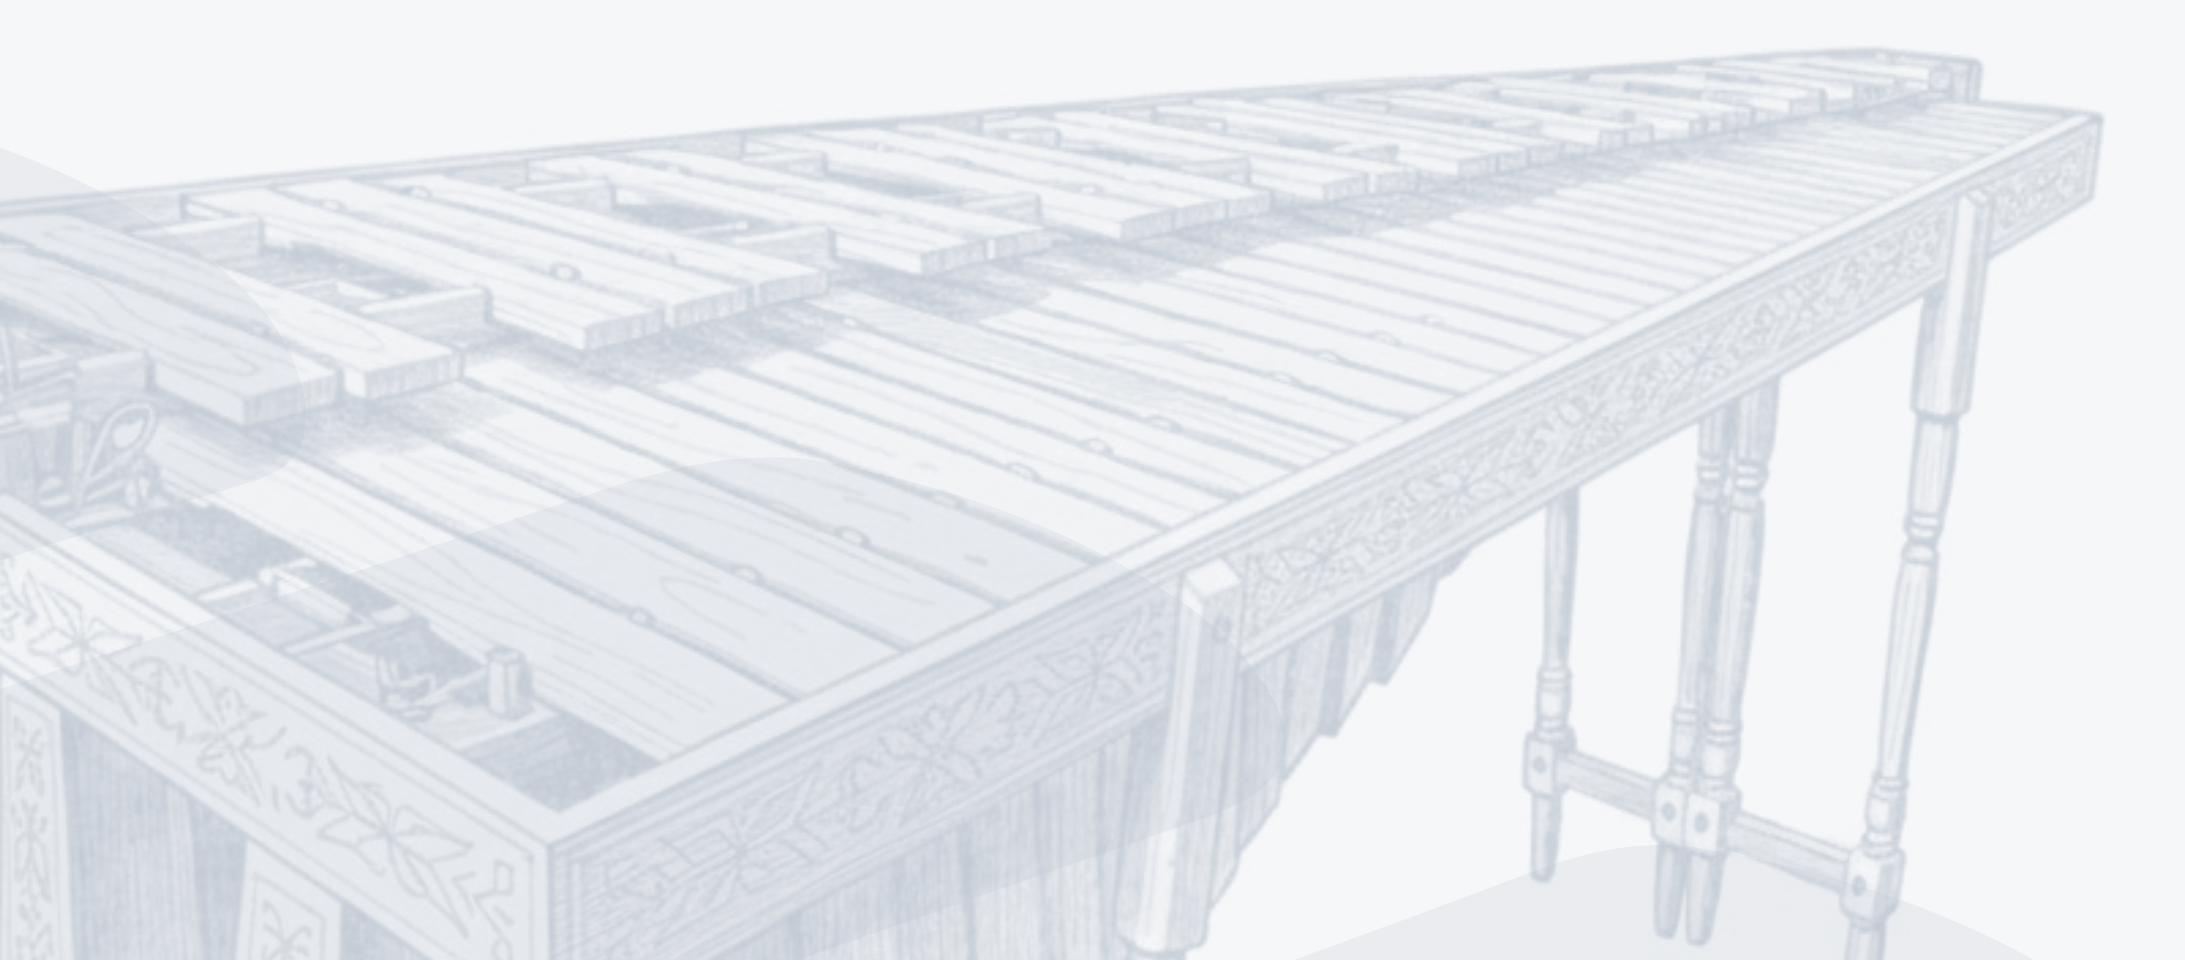
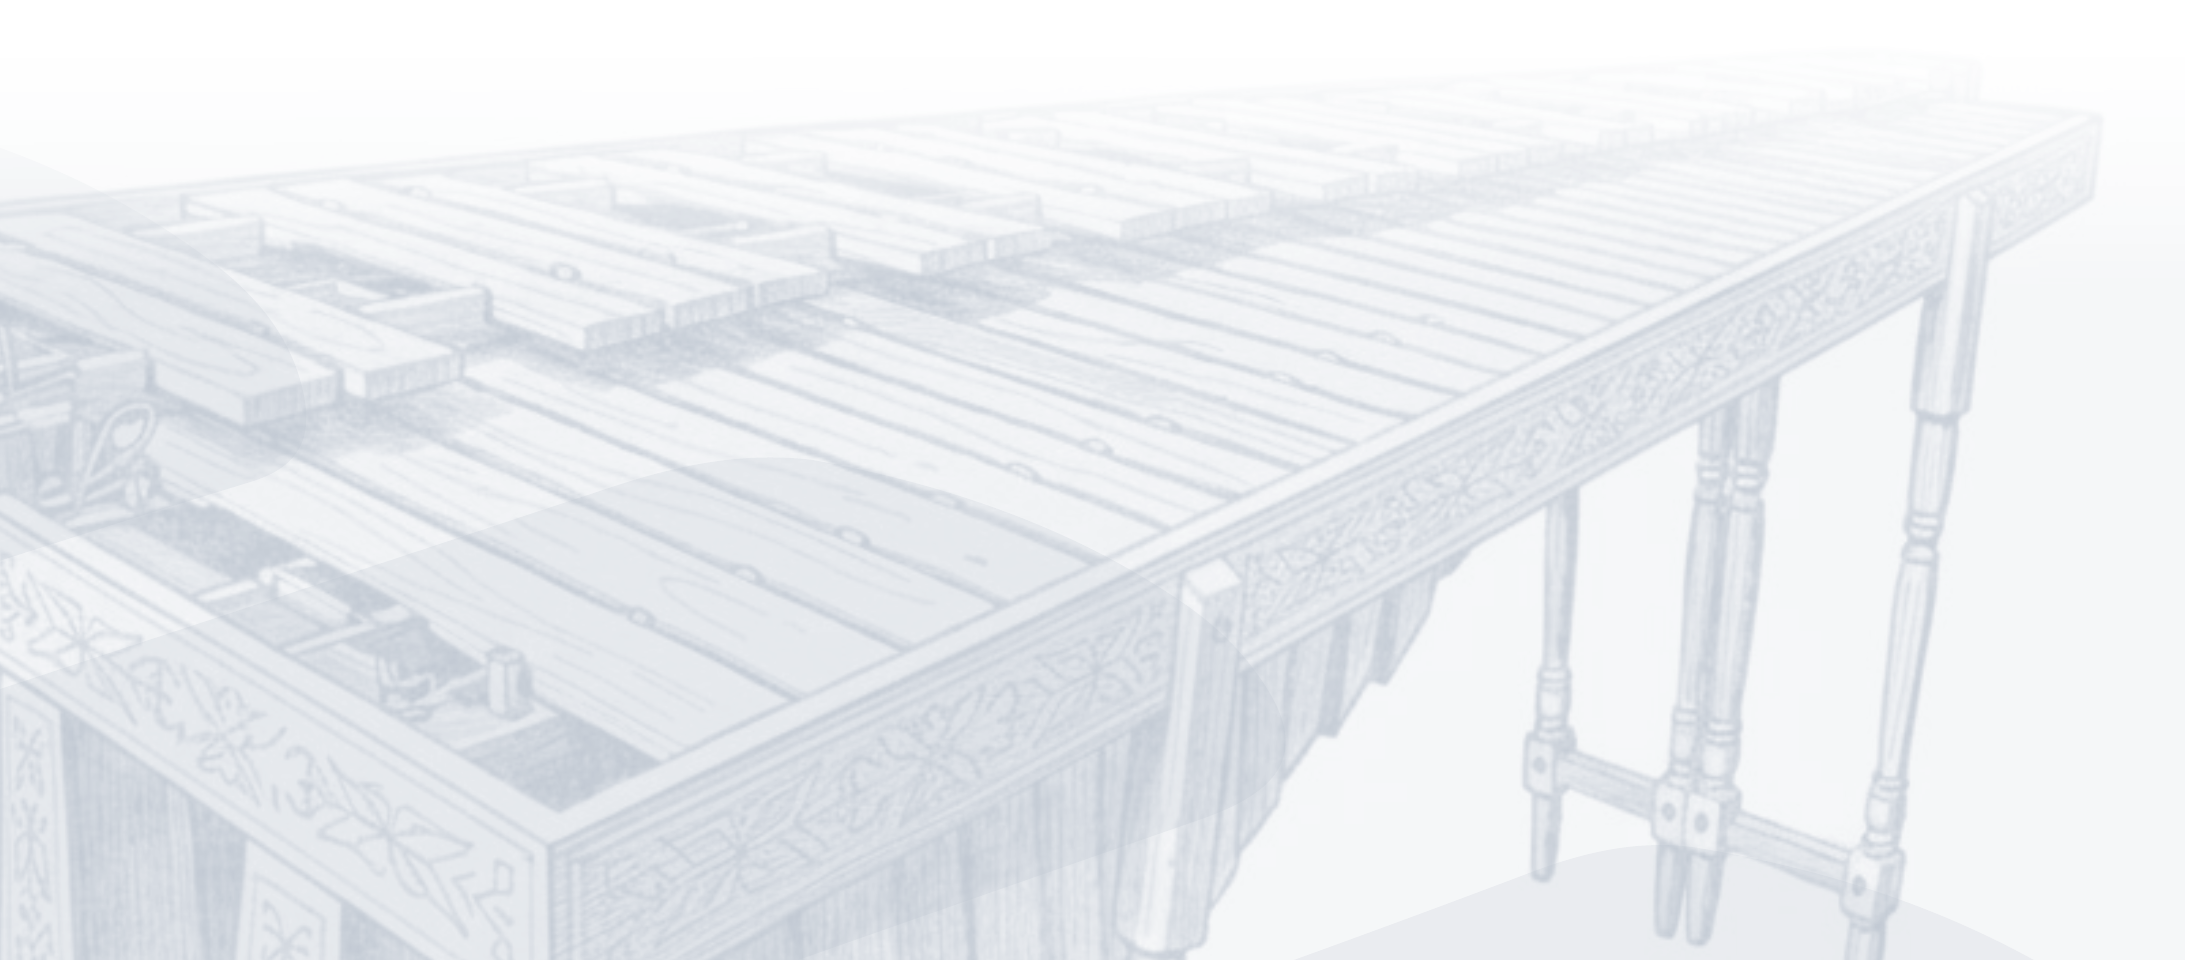
Difumina el borde superior de la marca de agua y ajusta 2mm mas abajo la firma de Ma. Luisa sin cruzar la linea

Changed region(s): [[0.249, 0.0312, 0.9648, 0.1875], [0.4979, 0.1562, 0.5291, 0.1875], [0.4046, 0.1875, 0.4357, 0.2188]]

diff --git a/src/components/admin/CertificatesManager.jsx b/src/components/admin/CertificatesManager.jsx
@@ -142,10 +142,10 @@ const generatePreviewPDF = async (cert) => {
     // La firma de Ma. Luisa tiene bastante espacio en blanco arriba del trazo principal;
     // su trazo horizontal cae al ~33% de la altura de la imagen contando desde abajo.
     // Calculamos el offset para que ese trazo quede justo sobre la línea (sigY + 3),
-    // con un ajuste fino manual (-5mm) porque el remolino/cola de la firma se extendía
-    // por debajo del trazo principal y llegaba a tocar el nombre impreso.
+    // con un ajuste fino manual porque el remolino/cola de la firma se extendía
+    // por debajo del trazo principal. -3 baja un poco respecto a -5 sin volver a cruzar la línea.
     const mlStrokeFractionFromBottom = 0.33;
-    const mlManualCorrection = -5;
+    const mlManualCorrection = -3;
     const mlOffsetY = 3 + mlStrokeFractionFromBottom * mlHeight + mlManualCorrection;
     doc.addImage(darioDataUrl, 'PNG', 90 - sigWidth / 2, sigY - darioHeight, sigWidth, darioHeight);
     doc.addImage(mariaLuisaDataUrl, 'PNG', 207 - sigWidth / 2, sigY - mlHeight + mlOffsetY, sigWidth, mlHeight);
